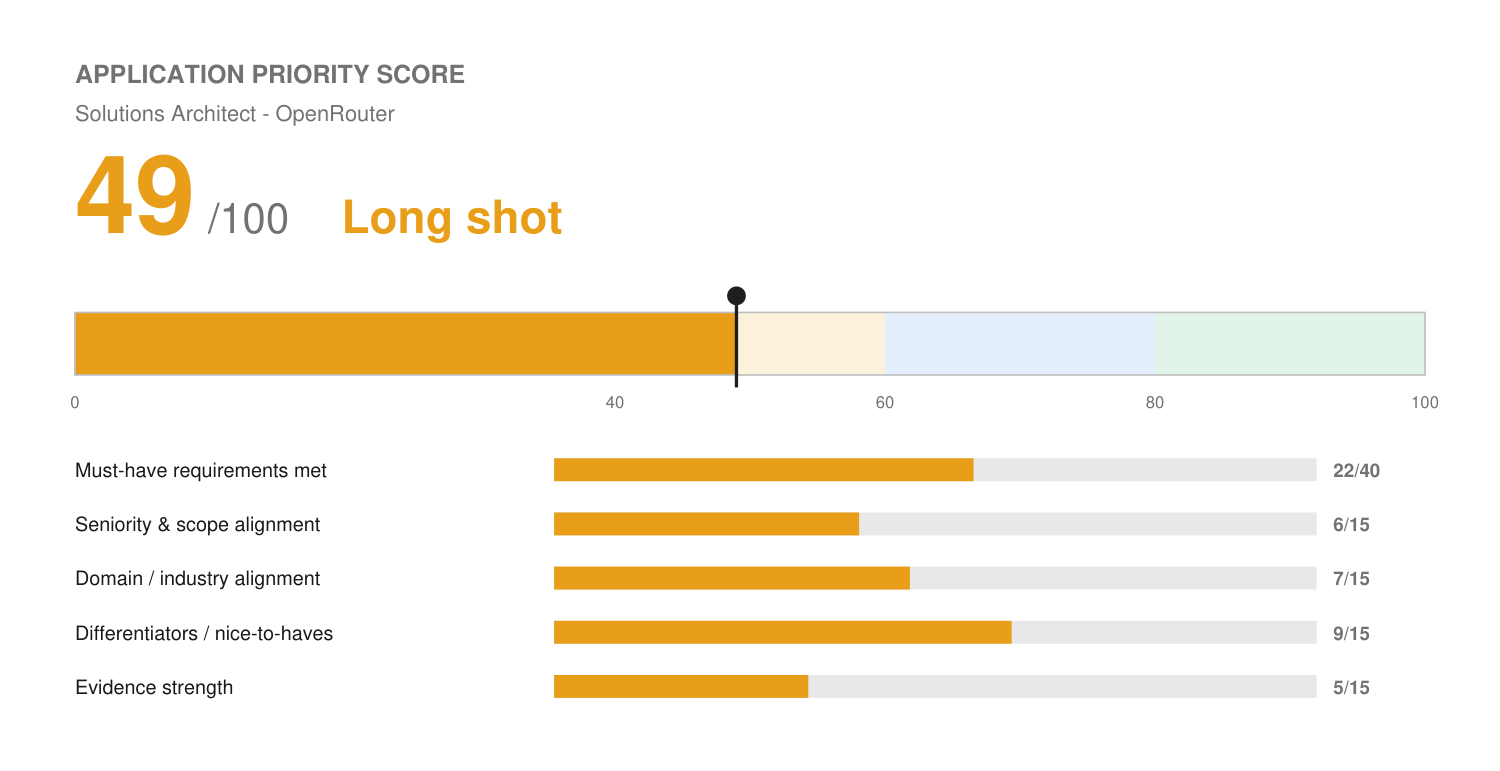
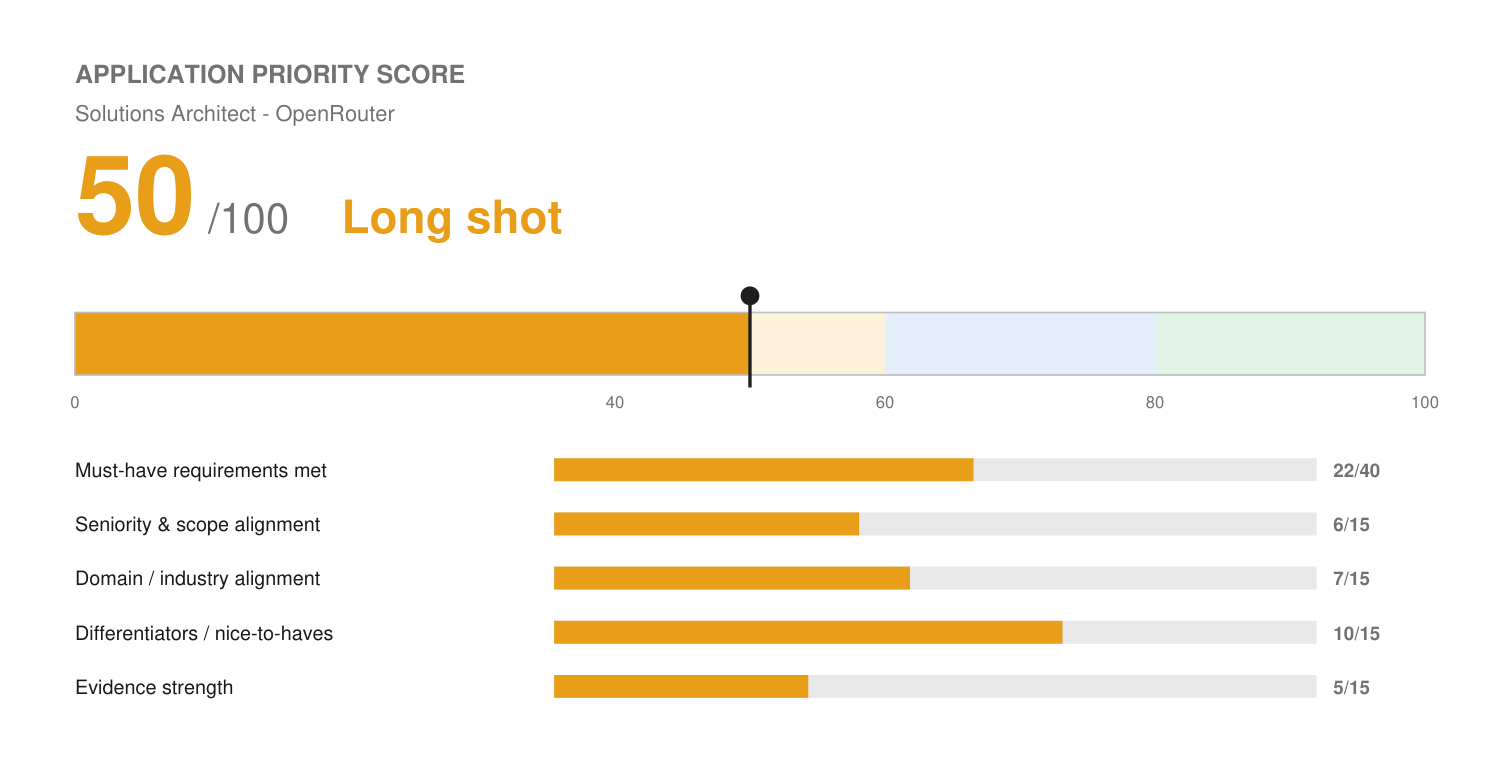
Capture personal Raspberry Pi tinkering, update OpenRouter score
New confirmed fact for master-profile.md: light, informal personal
Raspberry Pi tinkering, prompted by a near-miss opportunity with an
early-stage drone company that failed to launch after new FAA drone
regulations. Scoped honestly as personal hardware curiosity, not
professional infrastructure engineering experience.

Applied to the OpenRouter Solutions Architect application: closes the
posting's specific "personal projects / home-lab tinkering" nice-to-have,
bumping the score from 49 to 50 (still Long shot - this doesn't touch the
core Kubernetes/cloud/networking gap, which remains real and unaddressed).
Added one honest sentence to the cover letter and updated the match
report's candidate-confirmation section to resolved.

Claude-Session: https://claude.ai/code/session_01VueqVs3VuXe3kjn1NdkX4A

diff --git a/applications/openrouter-solutions-architect/match-report.md b/applications/openrouter-solutions-architect/match-report.md
@@ -33,7 +33,7 @@ This is honest labor-market long-shot territory, not a résumé-polish problem.
 | Hands-on technical curiosity | Resume-evidenced | Strong — self-taught SQL, Power BI, agentic AI system design as an adult professional |
 | Selling into healthcare, financial services, or regulated industries (nice-to-have) | Resume-evidenced | Strong direct match — Birdeye (healthcare-vertical), Fetch & Funnel (banking) |
 | Familiarity with LLM ecosystem, multi-provider routing (nice-to-have) | Resume-evidenced | Strong — daily hands-on AI tool evaluation and piloting across multiple platforms |
-| Personal AI/self-hosted/home-lab projects (nice-to-have) | Needs candidate confirmation | Not documented; ask Josh if he has anything here beyond his professional Solenzo work |
+| Personal AI/self-hosted/home-lab projects (nice-to-have) | Resume-evidenced (light) | Confirmed: light, informal personal Raspberry Pi tinkering. Real, but modest, not professional infrastructure experience |
 
 No failed hard eligibility criterion — the score is not capped. OpenRouter's own "please
 apply anyway" language was a real factor in evaluating and building this rather than
@@ -42,8 +42,8 @@ pausing to ask first, the way the Varonis and CDK postings warranted.
 ## Application Priority Score
 
 ```
-🟡 Application Priority Score: 49 / 100 — Long shot
-[██████████░░░░░░░░░░]  49%
+🟡 Application Priority Score: 50 / 100 — Long shot
+[██████████░░░░░░░░░░]  50%
 ```
 
 Internal decision aid for Josh — not a prediction of OpenRouter's own ATS score or hiring
@@ -54,7 +54,7 @@ decision. Full breakdown: see `fit.png`.
 | Must-have requirements met | 22 | 40 | Years cleared, hands-on curiosity and communication strong; the core infrastructure-engineering requirement and POC/security-review track record are both real gaps |
 | Seniority & scope alignment | 6 | 15 | IC role fits his preference, but "largest prospects and customers" implies enterprise deal scale beyond his historical $10K-$45K range |
 | Domain / industry alignment | 7 | 15 | Strong on the AI/LLM-ecosystem side (his actual daily work); near-zero on the infrastructure-engineering side of the same domain |
-| Differentiators / nice-to-haves | 9 | 15 | Two named nice-to-haves are direct, real matches: regulated-industry sales (healthcare, financial services) and LLM-ecosystem familiarity |
+| Differentiators / nice-to-haves | 10 | 15 | Three named nice-to-haves now have real evidence: regulated-industry sales (healthcare, financial services), LLM-ecosystem familiarity, and light personal Raspberry Pi tinkering (confirmed Sep 22, 2026) |
 | Evidence strength | 5 | 15 | Real AI-tooling evidence exists; no POC, architecture-review, or infrastructure-engineering evidence at all |
 
 **Band: Long shot (40-59)** — per the skill's own guidance, apply only if genuinely
@@ -72,7 +72,7 @@ interested; the cover letter leads with the honest trade explicitly.
 | Fast-growing/evolving environment | Covered (strong) | Founder/agency background |
 | Healthcare/financial-services/regulated industries (nice-to-have) | Covered (strong) | Birdeye, Fetch & Funnel |
 | LLM ecosystem familiarity, multi-provider routing (nice-to-have) | Covered (strong) | Daily hands-on AI tool evaluation and piloting |
-| Personal AI/home-lab projects (nice-to-have) | Needs confirmation | Not documented |
+| Personal AI/home-lab projects (nice-to-have) | Covered (light) | Confirmed light personal Raspberry Pi tinkering |
 
 ## Top strengths for this role
 
@@ -97,10 +97,10 @@ interested; the cover letter leads with the honest trade explicitly.
 
 ## Candidate confirmation needed
 
-- **Personal AI/self-hosted model or home-lab projects** — not in the profile. If Josh has
-  any real hands-on infrastructure tinkering (a home server, self-hosted models, anything
-  resembling the posting's Raspberry Pi example), that would meaningfully help this
-  specific application and should go into the profile.
+None remaining for this posting. (Resolved Sep 22, 2026: Josh confirmed light personal
+Raspberry Pi tinkering, added to `master-profile.md`. Modest, honestly scoped, doesn't
+close the core infrastructure-engineering gap, but does close the specific home-lab
+nice-to-have the posting names.)
 
 ## Output files
 

diff --git a/profile/master-profile.md b/profile/master-profile.md
@@ -131,6 +131,22 @@ band.
   employers, answer from the recreation side only and say plainly that the hunting and
   angling background isn't there. Do not re-ask; do not stretch this.
 
+## Personal hardware / AI tinkering (confirmed Sep 2026)
+
+- Josh has done light, informal personal tinkering with a Raspberry Pi at home ("messed
+  around with it a bit"). This is genuine, hands-on hardware/infrastructure curiosity
+  pursued on his own initiative, not professional experience, and should never be
+  represented as cloud, Kubernetes, networking, or production infrastructure engineering
+  experience, none of which is confirmed. Usable narrowly for the specific "personal
+  projects / home-lab tinkering" nice-to-have some postings name (e.g., a Raspberry-Pi
+  example), not for any stated must-have requiring real infrastructure engineering depth.
+- Context (unconfirmed specifics, do not use in application materials beyond this general
+  framing): the interest was prompted by a near-miss opportunity with an early-stage drone
+  company that failed to launch as a business after new FAA drone regulations shut it
+  down before Josh's involvement solidified. The nature of the prospective engagement
+  (employee, contractor, or client) was not specified, ask Josh if a specific application
+  would benefit from more detail.
+
 ## Personal interest in financial services / banking (confirmed Sep 2026)
 
 - Josh has confirmed a genuine personal interest in banking and financial services,
